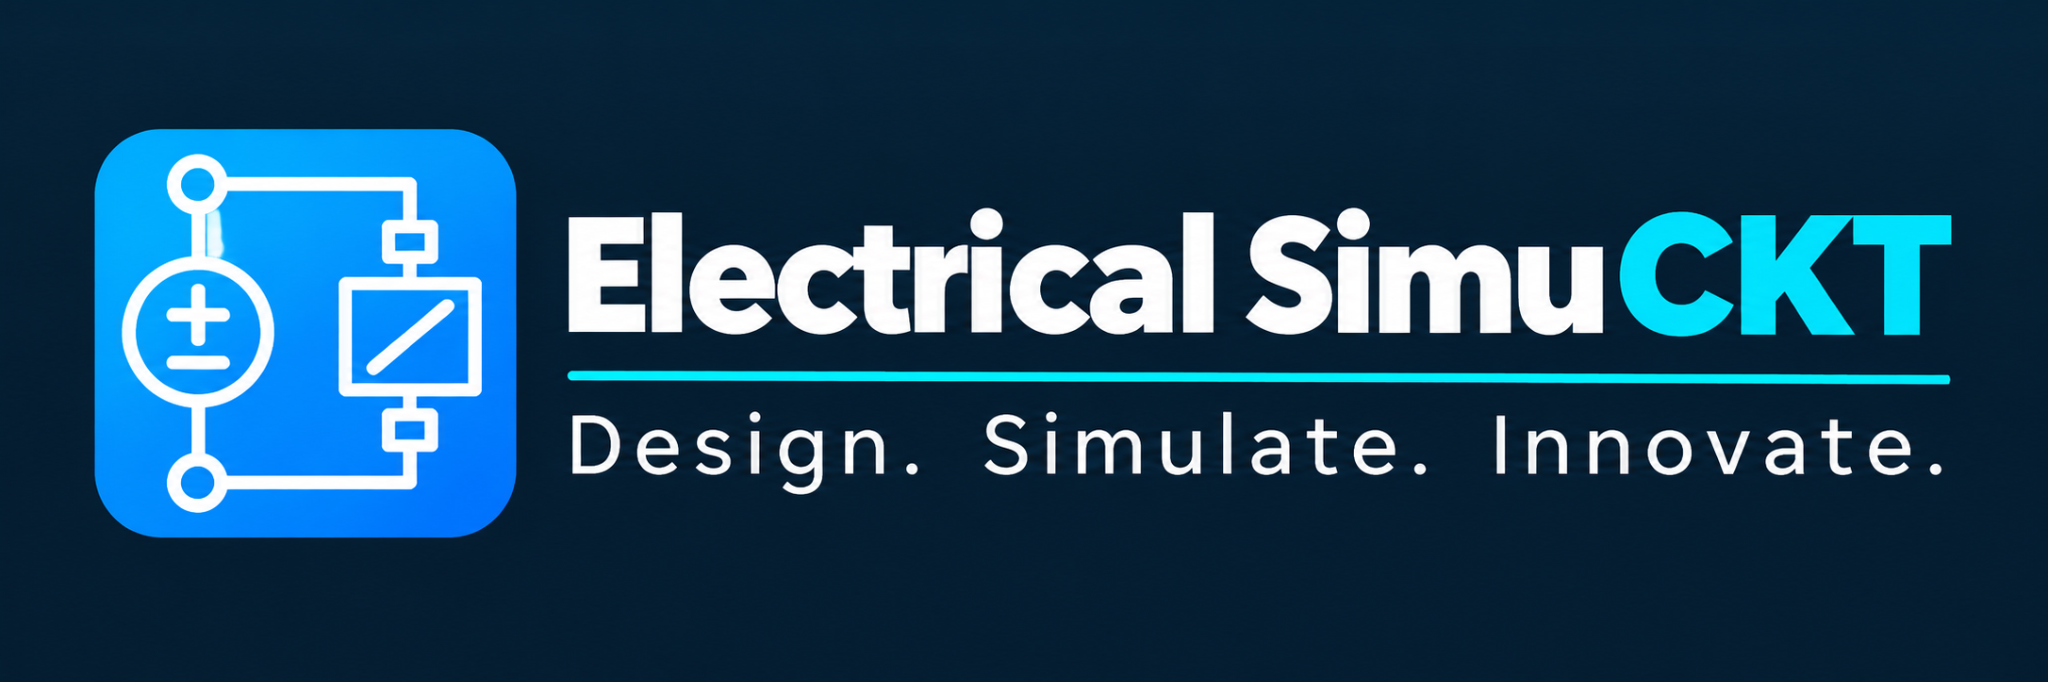
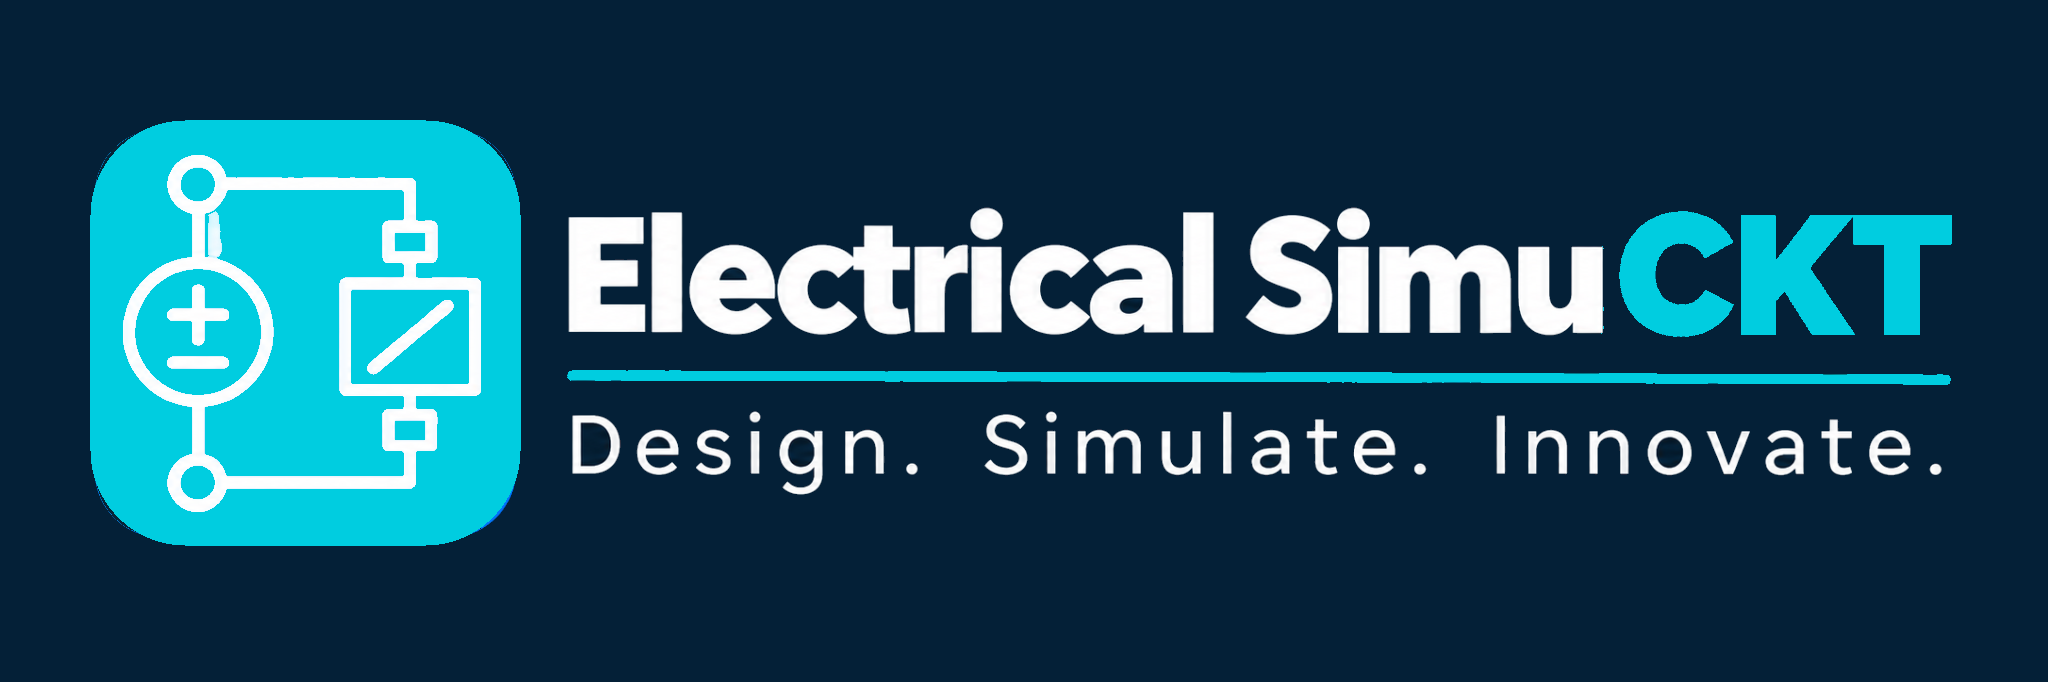
Add files via upload

Changed region(s): [[0.0312, 0.154, 0.9688, 0.8006], [0.7812, 0.3079, 0.9688, 0.4927]]

diff --git a/index.html b/index.html
@@ -84,7 +84,7 @@ body.library-hidden .layout > .work { flex:1 1 100% !important; width:100% !impo
         <g class="sheet-titleblock">
           <rect x="58" y="620" width="1084" height="82"/>
           <path d="M58 650H1142 M58 676H1142 M58 702H1142 M300 620V702 M650 620V702 M840 620V702 M1000 620V702 M480 650V676 M650 650V676 M840 650V676 M1000 650V676 M480 676V702 M840 676V702 M1000 676V702"/>
-          <image class="sheet-logo" href="esc-logo.png" x="68" y="624" width="222" height="74" preserveAspectRatio="xMidYMid meet"/>
+          <image class="sheet-logo" href="./assets/esc-brand-banner.png?v=sheet-navy-banner-cyan-icon-v3" x="68" y="624" width="222" height="74" preserveAspectRatio="xMidYMid meet"/>
           <text x="312" y="636">PROJECT:</text><text id="drawingProjectValue" class="sheet-value" x="370" y="636"></text>
           <text x="312" y="666">TITLE:</text><text id="drawingTitleValue" class="sheet-value" x="370" y="666"></text>
           <text x="312" y="692">DRAWN:</text><text id="drawingAuthorValue" class="sheet-value" x="370" y="692"></text>
@@ -110,7 +110,6 @@ body.library-hidden .layout > .work { flex:1 1 100% !important; width:100% !impo
  <div class="property-content">
   <label>Type<input id="propType" readonly></label>
   <label>Tag<input id="propTag"></label>
-  <label>Label<input id="propLabel"></label>
   <label>Comment<input id="propComment" placeholder="Optional component note"></label>
   <div class="property-actions">
    <button id="propertyOk" class="property-ok" type="button">Save</button>
@@ -378,7 +377,7 @@ document.getElementById("printDrawing")?.addEventListener("click",()=>window.pri
    if(e.button===0 && !panMode && !isEmptyWorkspace)return;
    const st=document.getElementById('state')?.textContent||'';
    if(window.__escWiringActive||st.startsWith('WIRE START')||st.startsWith('WIRE BEND')||st.startsWith('TERMINAL SELECTED'))return;
-   if(textMode){const p=point(e),value=prompt('Text to insert:','Text');if(value){const t=document.createElementNS('http://www.w3.org/2000/svg','text');t.setAttribute('x',p.x);t.setAttribute('y',p.y);t.setAttribute('class','drawing-text');t.textContent=value;t.setAttribute('fill','currentColor');t.setAttribute('font-size','16');drop.appendChild(t)}textMode=false;document.getElementById('insertTextBtn')?.classList.remove('active');return;}
+   if(textMode){const p=point(e),g=document.createElementNS('http://www.w3.org/2000/svg','g');g.setAttribute('class','drawing-text-object');g.setAttribute('transform',`translate(${p.x} ${p.y}) rotate(0)`);g.dataset.rotation='0';g.dataset.textObject='true';const t=document.createElementNS('http://www.w3.org/2000/svg','text');t.setAttribute('class','drawing-text');t.setAttribute('x','0');t.setAttribute('y','0');t.setAttribute('fill','var(--drawing-text-color, #ffffff)');t.setAttribute('font-size','16');t.setAttribute('xml:space','preserve');t.textContent='Double-click to edit';g.appendChild(t);const hit=document.createElementNS('http://www.w3.org/2000/svg','rect');hit.setAttribute('class','drawing-text-hit');hit.setAttribute('x','-8');hit.setAttribute('y','-24');hit.setAttribute('width','210');hit.setAttribute('height','34');hit.setAttribute('fill','transparent');hit.setAttribute('stroke','none');g.insertBefore(hit,t);drop.appendChild(g);enableDrawingText(g);selectDrawingText(g);textMode=false;document.getElementById('insertTextBtn')?.classList.remove('active');document.getElementById('state').textContent='TEXT ADDED • DOUBLE-CLICK TO EDIT';return;}
    const rect=svg.getBoundingClientRect();
    pan={clientX:e.clientX,clientY:e.clientY,x:view.x,y:view.y,unitsPerPixelX:view.w/Math.max(1,rect.width),unitsPerPixelY:view.h/Math.max(1,rect.height),pointerId:e.pointerId};
    svg.classList.add('panning');e.preventDefault();
@@ -678,9 +677,8 @@ document.querySelectorAll(".top nav button").forEach(button => {
    e.preventDefault();
    const g=typeof selected!=='undefined'?selected:null;
    if(!g||!g.isConnected){setStatus('NO COMPONENT SELECTED');return;}
-   const tag=$('propTag')?.value.trim(),label=$('propLabel')?.value.trim(),comment=$('propComment')?.value.trim()||'';
+   const tag=$('propTag')?.value.trim(),comment=$('propComment')?.value.trim()||'';
    if(tag){g.dataset.ref=tag;const t=g.querySelector('.drop-tag');if(t)t.textContent=tag;}
-   if(label!==undefined){g.dataset.label=label;const t=g.querySelector('.drop-label');if(t)t.textContent=label;}
    g.dataset.comment=comment;
    let note=g.querySelector('.drop-comment');
    if(!note){note=document.createElementNS('http://www.w3.org/2000/svg','text');note.setAttribute('class','drop-comment');note.setAttribute('x','36');note.setAttribute('y','70');note.setAttribute('text-anchor','middle');note.setAttribute('transform','rotate(-90 36 70)');g.appendChild(note);}
@@ -955,5 +953,169 @@ document.querySelectorAll(".top nav button").forEach(button => {
   document.addEventListener('pointercancel', function(){ start = null; previous = null; moved = false; }, true);
 })();
 </script>
+
+<script id="esc-three-requested-changes-v2">
+(()=>{
+ const NS='http://www.w3.org/2000/svg', svg=document.getElementById('schematic'), layer=document.getElementById('dropLayer');
+ if(!svg||!layer)return;
+ const $=id=>document.getElementById(id);
+ const isDark=()=>document.body.classList.contains('theme-light')===false;
+ const colorInput=$('escComponentColor'), settings=$('escSettingsPopover');
+ // One unified appearance section: one colour picker for components and wires.
+ const sections=[...document.querySelectorAll('.settings-section-label')];
+ const appearance=sections.find(x=>/Component Appearance/i.test(x.textContent));
+ if(appearance){
+   appearance.textContent='Component / Wire Colour';
+   const next=appearance.nextElementSibling;
+   if(next?.id!=='escDefaultColourRow' && next?.classList.contains('esc-color-setting')) next.remove();
+   const border=$('escBorderColor')?.closest('.esc-color-setting'); if(border)border.remove();
+ }
+ if(settings&&!$('escDefaultColourRow')){
+   const row=document.createElement('label');row.id='escDefaultColourRow';row.className='zoom-panel-setting';
+   row.innerHTML='<span>Use selected colour as default</span><input id="escDefaultColour" type="checkbox" aria-label="Use selected colour as default">';
+   appearance?.insertAdjacentElement('afterend',row);
+ }
+ const defaultToggle=$('escDefaultColour');
+ if(defaultToggle)defaultToggle.checked=localStorage.getItem('esc-use-default-colour-v1')==='true';
+ const activeColor=()=>isDark()?'#ffff00':'#000000';
+ const tint=(g,color)=>{
+   if(!g||!color)return;
+   g.querySelectorAll('path,line,polyline,polygon,rect,circle,ellipse').forEach(el=>{
+     if(el.closest('.terminal,.port,.select-box,.drawing-text-hit'))return;
+     const st=el.getAttribute('stroke'),fi=el.getAttribute('fill');
+     if(st&&st!=='none'&&st!=='transparent')el.setAttribute('stroke',color);
+     if(fi&&fi!=='none'&&fi!=='transparent')el.setAttribute('fill',color);
+   });
+   g.dataset.workspaceColor=color;
+ };
+ const applyColours=()=>{
+   const c=activeColor();
+   layer.querySelectorAll('.dropped-symbol').forEach(g=>tint(g,c));
+   document.querySelectorAll('#wireLayer path,#wireLayer line,#wireLayer polyline,#wireLayer .connected-wire,#wireLayer .wire').forEach(w=>{w.style.stroke=c;w.setAttribute('stroke',c);});
+ };
+ if(colorInput){
+   const saved=localStorage.getItem('esc-default-component-colour-v1');
+   if(saved&&defaultToggle?.checked)colorInput.value=saved;
+   colorInput.addEventListener('input',()=>{
+     if(defaultToggle?.checked)localStorage.setItem('esc-default-component-colour-v1',colorInput.value);
+     applyColours();
+   });
+ }
+ defaultToggle?.addEventListener('change',()=>{
+   localStorage.setItem('esc-use-default-colour-v1',String(defaultToggle.checked));
+   if(defaultToggle.checked&&colorInput)localStorage.setItem('esc-default-component-colour-v1',colorInput.value);
+   applyColours();
+ });
+ const colourObserver=new MutationObserver(()=>applyColours());
+ colourObserver.observe(layer,{childList:true,subtree:true});
+ const themeObserver=new MutationObserver(applyColours);
+ themeObserver.observe(document.body,{attributes:true,attributeFilter:['class']});
+ function selectText(g){layer.querySelectorAll('.drawing-text-object.selected-text').forEach(x=>x.classList.remove('selected-text'));g.classList.add('selected-text');window.__escSelectedDrawingText=g;}
+ function moveOf(g){const m=/translate\(([-\d.]+)[ ,]+([-\d.]+)\)/.exec(g.getAttribute('transform')||'');return {x:m?+m[1]:0,y:m?+m[2]:0};}
+ function textBounds(g){
+   const t=g.querySelector('text.drawing-text'); let b;
+   try{b=t.getBBox()}catch{b={x:0,y:-18,width:180,height:24};}
+   const hit=g.querySelector('.drawing-text-hit');
+   hit.setAttribute('x',b.x-5);hit.setAttribute('y',b.y-4);hit.setAttribute('width',Math.max(30,b.width+10));hit.setAttribute('height',Math.max(25,b.height+8));
+ }
+ function ensureEditorTools(){
+   if($('escTextEditorTools'))return;
+   const panel=document.createElement('div');panel.id='escTextEditorTools';
+   panel.innerHTML='<label>Text colour <input id="escTextColour" type="color" value="#ffff00"></label><label>Size <input id="escTextSize" type="number" min="6" max="96" value="16"></label><button id="escTextDone" type="button">Done</button>';
+   document.body.appendChild(panel);
+   $('escTextColour').addEventListener('input',()=>{if(window.__escEditingText){window.__escEditingText.dataset.textColor=$('escTextColour').value;window.__escEditingText.querySelector('text.drawing-text').setAttribute('fill',$('escTextColour').value);}});
+   $('escTextSize').addEventListener('input',()=>{if(window.__escEditingText){window.__escEditingText.dataset.textSize=$('escTextSize').value;window.__escEditingText.querySelector('text.drawing-text').setAttribute('font-size',$('escTextSize').value);textBounds(window.__escEditingText);}});
+   $('escTextDone').addEventListener('click',()=>finishEdit(true));
+ }
+ let editArea=null, editTarget=null;
+ function finishEdit(keep){
+   if(!editArea)return;
+   if(keep&&editTarget){const t=editTarget.querySelector('text.drawing-text');t.textContent=editArea.value;textBounds(editTarget);}
+   const finishedTarget=editTarget;
+   editArea.remove();editArea=null;editTarget=null;window.__escEditingText=null;
+   if(finishedTarget)finishedTarget.classList.remove('editing-text');
+   const tools=$('escTextEditorTools');if(tools)tools.style.display='none';
+   layer.querySelectorAll('.drawing-text-object.selected-text').forEach(x=>x.classList.remove('selected-text'));
+ }
+ function beginEdit(g){
+   finishEdit(true);ensureEditorTools();editTarget=g;window.__escEditingText=g;g.classList.add('editing-text');
+   const t=g.querySelector('text.drawing-text'), pos=moveOf(g);
+   const screen=svg.createSVGPoint();screen.x=pos.x;screen.y=pos.y;
+   const p=screen.matrixTransform(svg.getScreenCTM());
+   editArea=document.createElement('textarea');editArea.className='esc-text-entry';editArea.value=t.textContent==='Click to type'?'':t.textContent;
+   editArea.style.left=p.x+'px';editArea.style.top=(p.y-20)+'px';editArea.style.color=t.getAttribute('fill')||activeColor();editArea.style.fontSize=(t.getAttribute('font-size')||16)+'px';
+   document.body.appendChild(editArea);
+   $('escTextColour').value=/^#[0-9a-f]{6}$/i.test(t.getAttribute('fill')||'')?t.getAttribute('fill'):activeColor();
+   $('escTextSize').value=t.getAttribute('font-size')||16;
+   const tools=$('escTextEditorTools');tools.style.display='flex';
+   const workspace=document.querySelector('.work')||$('sheet')||svg;
+   const wr=workspace.getBoundingClientRect();
+   tools.style.left=Math.max(8,wr.left+10)+'px';
+   tools.style.top=Math.max(8,wr.top+10)+'px';
+   editArea.focus();editArea.setSelectionRange(editArea.value.length,editArea.value.length);
+   editArea.addEventListener('input',()=>{t.textContent=editArea.value;textBounds(g);});
+   editArea.addEventListener('keydown',e=>{
+     if(e.key==='Escape'){e.preventDefault();finishEdit(false);}
+     else if(e.key==='Enter'&&!e.shiftKey){e.preventDefault();finishEdit(true);}
+     e.stopPropagation();
+   });
+   editArea.addEventListener('blur',()=>{if(editArea)setTimeout(()=>{if(editArea&&!$('escTextEditorTools').matches(':hover'))finishEdit(true);},120);});
+ }
+ function enableText(g){
+   if(g.dataset.textBound)return;g.dataset.textBound='1';
+   g.addEventListener('pointerdown',e=>{
+     if(e.button!==0)return;e.stopPropagation();finishEdit(true);selectText(g);
+     const p=svg.createSVGPoint();p.x=e.clientX;p.y=e.clientY;const q=p.matrixTransform(svg.getScreenCTM().inverse()),pos=moveOf(g);
+     g.__drag={x:q.x,y:q.y,tx:pos.x,ty:pos.y,id:e.pointerId};try{g.setPointerCapture(e.pointerId)}catch{}
+   });
+   g.addEventListener('pointermove',e=>{
+     const d=g.__drag;if(!d||d.id!==e.pointerId)return;
+     const p=svg.createSVGPoint();p.x=e.clientX;p.y=e.clientY;const q=p.matrixTransform(svg.getScreenCTM().inverse());
+     const r=+(g.dataset.rotation||0);g.setAttribute('transform',`translate(${d.tx+q.x-d.x} ${d.ty+q.y-d.y}) rotate(${r})`);
+   });
+   const end=e=>{if(g.__drag&&g.__drag.id===e.pointerId)g.__drag=null;};g.addEventListener('pointerup',end);g.addEventListener('pointercancel',end);
+   g.addEventListener('dblclick',e=>{e.preventDefault();e.stopPropagation();selectText(g);beginEdit(g);});
+   textBounds(g);
+ }
+ function createTextAt(x,y){
+   const g=document.createElementNS(NS,'g');g.setAttribute('class','drawing-text-object');g.setAttribute('transform',`translate(${x} ${y}) rotate(0)`);g.dataset.rotation='0';g.dataset.textObject='true';g.dataset.textColor=activeColor();g.dataset.textSize='16';
+   const hit=document.createElementNS(NS,'rect');hit.setAttribute('class','drawing-text-hit');hit.setAttribute('fill','transparent');hit.setAttribute('stroke','none');g.appendChild(hit);
+   const t=document.createElementNS(NS,'text');t.setAttribute('class','drawing-text');t.setAttribute('x','0');t.setAttribute('y','0');t.setAttribute('fill',activeColor());t.setAttribute('font-size','16');t.setAttribute('font-family','Arial,sans-serif');t.textContent='';g.appendChild(t);layer.appendChild(g);enableText(g);selectText(g);beginEdit(g);return g;
+ }
+ window.createDrawingTextAt=createTextAt;
+ layer.querySelectorAll('.drawing-text-object').forEach(enableText);
+ // Single click on Text immediately places a transparent editing area at the viewport centre.
+ $('insertTextBtn')?.addEventListener('click',e=>{
+   e.preventDefault();e.stopImmediatePropagation();
+   const vb=svg.viewBox.baseVal;createTextAt(vb.x+vb.width/2-150,vb.y+115);
+   $('state').textContent='TEXT INSERTED • TYPE TEXT, ENTER TO FINISH';
+ },true);
+ $('rotateBtn')?.addEventListener('click',e=>{
+   const g=window.__escSelectedDrawingText;if(!g||!g.isConnected)return;
+   e.stopPropagation();finishEdit(true);
+   const r=(+(g.dataset.rotation||0)+90)%360;g.dataset.rotation=String(r);
+   const p=moveOf(g);g.setAttribute('transform',`translate(${p.x} ${p.y}) rotate(${r})`);textBounds(g);
+ });
+ // Delete selected text with the toolbar or keyboard, without changing component delete behaviour.
+ const deleteBtn=$('delete');
+ deleteBtn?.addEventListener('click',e=>{const g=window.__escSelectedDrawingText;if(g?.isConnected){e.stopImmediatePropagation();finishEdit(true);g.remove();window.__escSelectedDrawingText=null;}},true);
+ document.addEventListener('keydown',e=>{
+   if(e.key==='Delete'||e.key==='Backspace'){
+     if(e.target?.matches('input,textarea,[contenteditable="true"]'))return;
+     const g=window.__escSelectedDrawingText;if(g?.isConnected){e.preventDefault();finishEdit(true);g.remove();window.__escSelectedDrawingText=null;}
+   }
+ });
+ const style=document.createElement('style');style.textContent=`
+ .drawing-text-object{cursor:move;user-select:none}.drawing-text-object .drawing-text-hit{fill:transparent;stroke:transparent;pointer-events:all}
+ .drawing-text-object.editing-text .drawing-text-hit{stroke:var(--esc-text-selection,#ffff00);stroke-width:1.5;stroke-dasharray:4 3}
+ .drawing-text-object .drawing-text{pointer-events:none;font-family:Arial,sans-serif}
+ .esc-text-entry{position:fixed;z-index:100000;width:300px;min-height:38px;resize:none;background:transparent;border:1px dashed #ffff00;outline:none;caret-color:#ffff00;padding:2px 4px;line-height:1.25;white-space:pre-wrap;overflow:hidden;font-family:Arial,sans-serif}
+ #escTextEditorTools{display:none;position:fixed;z-index:100001;align-items:center;gap:8px;padding:7px;background:#10243a;border:1px solid #168dff;border-radius:8px;color:#fff;font:12px Arial}
+ #escTextEditorTools label{display:flex;align-items:center;gap:4px}#escTextEditorTools input[type=number]{width:55px}#escTextEditorTools button{background:#00bfae;border:0;border-radius:5px;padding:6px 10px;color:#001}
+ `;
+ style.textContent+=' body.theme-light .drawing-text-object.editing-text .drawing-text-hit{stroke:#000000} body.theme-light .esc-text-entry{border-color:#000000;caret-color:#000000}';document.head.appendChild(style);applyColours();
+})();
+</script>
+
 </body>
 </html>
